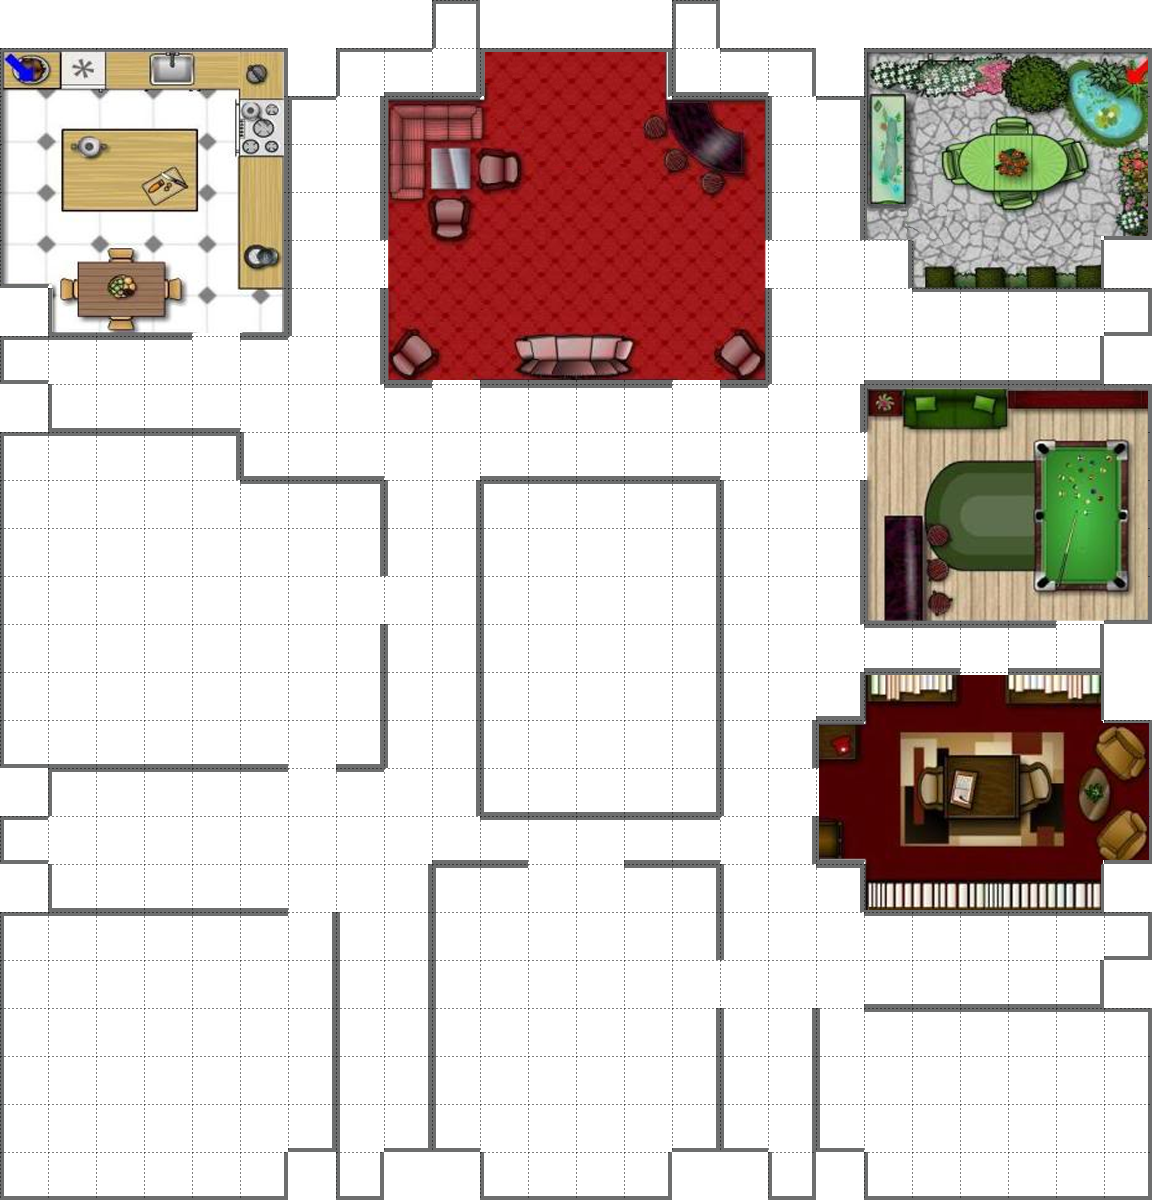
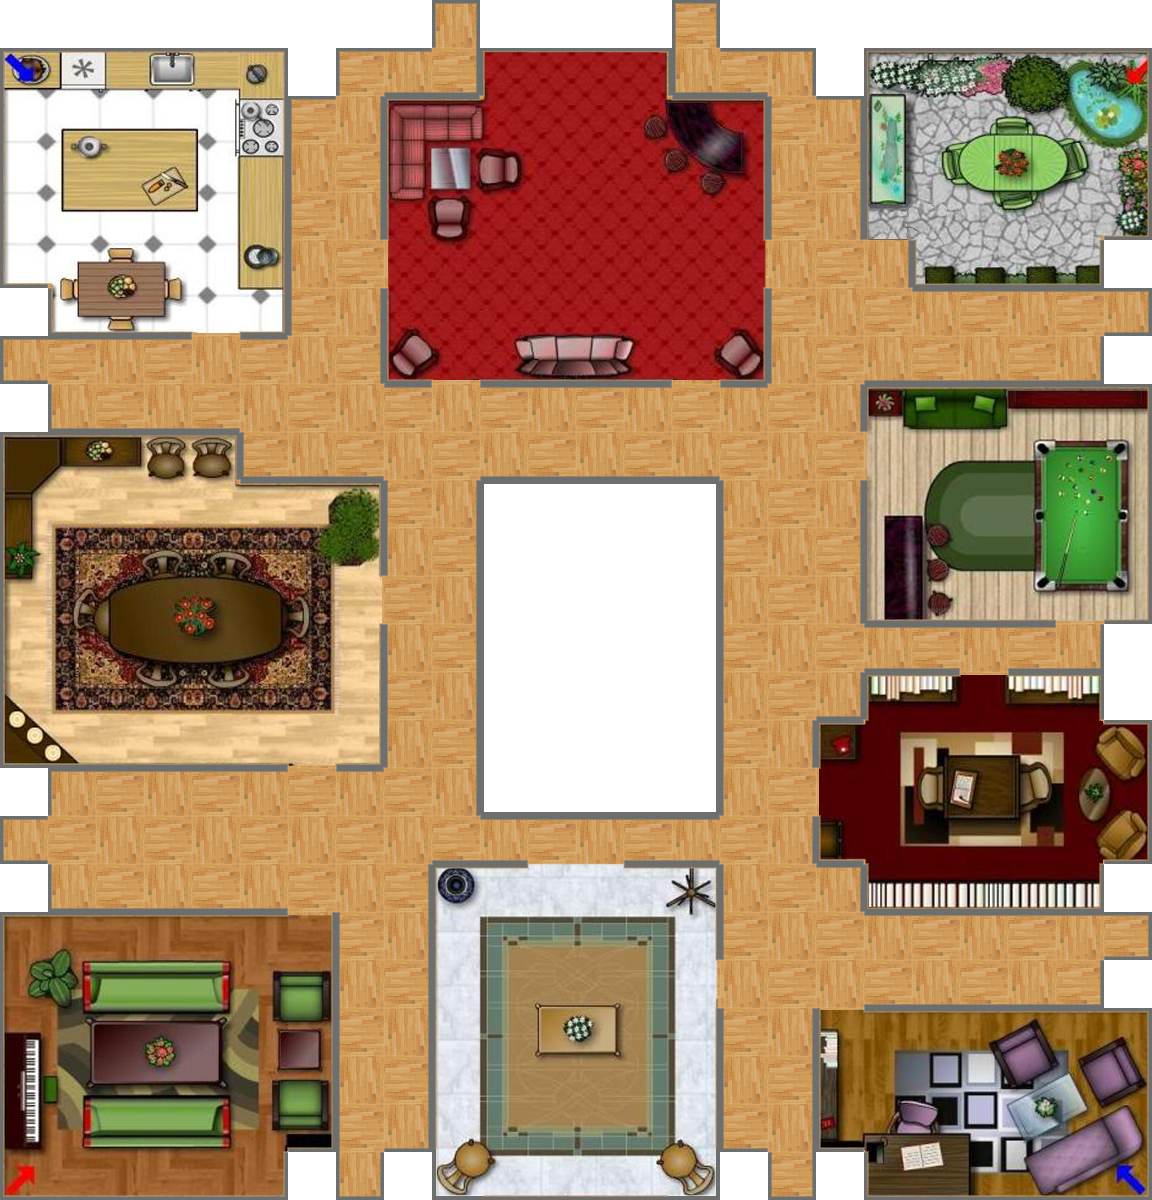
Added collision between chars

diff --git a/Cluedo/src/cluedo/main/Game.java b/Cluedo/src/cluedo/main/Game.java
@@ -19,6 +19,7 @@ import javax.swing.JFrame;
 import javax.swing.JMenuBar;
 import javax.swing.JPanel;
 
+import cluedo.character.Chars;
 import cluedo.main.UpdatePlayer.mFunc;
 import cluedo.render.CardHUD;
 import cluedo.render.HUD;
@@ -189,26 +190,32 @@ public class Game implements KeyListener, MouseListener{
 			ArrayList<Point> pnts = new ArrayList<Point>();
 			if(tileX >=0 && tileX <t_w_i && tileY >= 0 && tileY <t_h_i){
 				int x =(int) tileX;
-				int y = (int) tileY;
-				points = updatePlayerMove.updatePlayerMove(mFunc.MOVE_MOUSE, data, new Point(x, y));
-				pnts = new ArrayList<Point>();
-				while(!points.isEmpty()){
-					Point p = points.pop();
-					//System.out.println("Here");
-					data.getCurrentPlayer().setPosition(p);
-					for(Point pn : points){
-						pnts.add(pn);
-					}
-					data.setMousePath(pnts);
+				int y = (int) tileY;								
+				if(tiles[y][x].get_room()!= Room.NULL && !tiles[y][x].HasChar()){
+					points = updatePlayerMove.updatePlayerMove(mFunc.MOVE_MOUSE, data, new Point(x, y));
 					pnts = new ArrayList<Point>();
-					screen.render(data);
-					try {
-						Thread.sleep(100);
-					} catch (InterruptedException e1) {
-						e1.printStackTrace();
+					while(!points.isEmpty()){
+						Point p = points.pop();
+						//System.out.println("Here");
+						Chars c = data.getCurrentPlayer();
+						tiles[c.getPosition().y][c.getPosition().x].setHasChar(false);
+						data.getCurrentPlayer().setPosition(p);
+						c = data.getCurrentPlayer();
+						tiles[c.getPosition().y][c.getPosition().x].setHasChar(true);
+						
+						for(Point pn : points){
+							pnts.add(pn);
+						}
+						data.setMousePath(pnts);
+						pnts = new ArrayList<Point>();
+						screen.render(data);
+						try {
+							Thread.sleep(100);
+						} catch (InterruptedException e1) {
+							e1.printStackTrace();
+						}
 					}
 				}
-
 			}
 			screen.render(data);
 
@@ -232,7 +239,7 @@ public class Game implements KeyListener, MouseListener{
 
 	public enum Room{
 		KITCHEN, BALL_ROOM, CONSERVATORY, DINING_ROOM, BILLARD_ROOM,
-		LIBRARY, LOUNGE, HALL, STUDY, FLOOR
+		LIBRARY, LOUNGE, HALL, STUDY, FLOOR, NULL
 	}
 
 	public static void main(String[] args) {

diff --git a/Cluedo/src/cluedo/load/LoadMap.java b/Cluedo/src/cluedo/load/LoadMap.java
@@ -46,31 +46,37 @@ public class LoadMap {
 						c.setSprite(new LoadImage().load_chars_image(c.get_name()));
 						chars.add(c);
 						tiles[tile_count][i].set_room(Room.FLOOR);
+						tiles[tile_count][i].setHasChar(true);
 					}else if(data[i].equalsIgnoreCase("RG")){
 						Chars c = new Chars(CharsName.REVEREND_GREEN,new Point(i,tile_count));
 						c.setSprite(new LoadImage().load_chars_image(c.get_name()));
 						chars.add(c);
 						tiles[tile_count][i].set_room(Room.FLOOR);
+						tiles[tile_count][i].setHasChar(true);
 					}else if(data[i].equalsIgnoreCase("MP")){
 						Chars c = new Chars(CharsName.MRS_PEACOCK,new Point(i,tile_count));
 						c.setSprite(new LoadImage().load_chars_image(c.get_name()));
 						chars.add(c);
 						tiles[tile_count][i].set_room(Room.FLOOR);
+						tiles[tile_count][i].setHasChar(true);
 					}else if(data[i].equalsIgnoreCase("CM")){
 						Chars c = new Chars(CharsName.COLONEL_MUSTARD,new Point(i,tile_count));
 						c.setSprite(new LoadImage().load_chars_image(c.get_name()));
 						chars.add(c);
 						tiles[tile_count][i].set_room(Room.FLOOR);
+						tiles[tile_count][i].setHasChar(true);
 					}else if(data[i].equalsIgnoreCase("PP")){
 						Chars c = new Chars(CharsName.PROFESSOR_PLUM,new Point(i,tile_count));
 						c.setSprite(new LoadImage().load_chars_image(c.get_name()));
 						chars.add(c);
 						tiles[tile_count][i].set_room(Room.FLOOR);
+						tiles[tile_count][i].setHasChar(true);
 					}else if(data[i].equalsIgnoreCase("MS")){
 						Chars c = new Chars(CharsName.MISS_SCARLET,new Point(i,tile_count));
 						c.setSprite(new LoadImage().load_chars_image(c.get_name()));
 						chars.add(c);
 						tiles[tile_count][i].set_room(Room.FLOOR);
+						tiles[tile_count][i].setHasChar(true);
 					}else if(data[i].equalsIgnoreCase("a")){
 						tiles[tile_count][i].set_room(Room.KITCHEN);
 						tiles[tile_count][i].set_trap(true);
@@ -156,6 +162,8 @@ public class LoadMap {
 			room = Room.HALL;
 		}else if(d == 9){
 			room = Room.STUDY;
+		}else if(d == 10){
+			room = Room.NULL;
 		}
 
 		return room;

diff --git a/Cluedo/src/cluedo/search/Search.java b/Cluedo/src/cluedo/search/Search.java
@@ -35,7 +35,7 @@ public class Search {
 				Tile curTile = currentObj.getTile();
 				if(curTile.can_move_up()){
 					Tile nTile = curTile.get_neigh(Direction.UP);
-					if(!nTile.isVisited()){
+					if(!nTile.isVisited() && !nTile.HasChar()){
 						double costToNeigh = currentObj.getCostToHere()+1; // The on represents the distance to the next tile
 						double estTotal = costToNeigh + estimate(nTile, to);
 						QNode n = new QNode(nTile, currentObj, costToNeigh, estTotal);
@@ -45,7 +45,7 @@ public class Search {
 				}
 				if(curTile.can_move_down()){
 					Tile nTile = curTile.get_neigh(Direction.DOWN);
-					if(!nTile.isVisited()){
+					if(!nTile.isVisited() && !nTile.HasChar()){
 						double costToNeigh = currentObj.getCostToHere()+1; // The on represents the distance to the next tile
 						double estTotal = costToNeigh + estimate(nTile, to);
 						QNode n = new QNode(nTile, currentObj, costToNeigh, estTotal);
@@ -55,7 +55,7 @@ public class Search {
 				}
 				if(curTile.can_move_right()){
 					Tile nTile = curTile.get_neigh(Direction.RIGHT);
-					if(!nTile.isVisited()){
+					if(!nTile.isVisited() && !nTile.HasChar()){
 						double costToNeigh = currentObj.getCostToHere()+1; // The on represents the distance to the next tile
 						double estTotal = costToNeigh + estimate(nTile, to);
 						QNode n = new QNode(nTile, currentObj, costToNeigh, estTotal);
@@ -65,7 +65,7 @@ public class Search {
 				}
 				if(curTile.can_move_left()){
 					Tile nTile = curTile.get_neigh(Direction.LEFT);
-					if(!nTile.isVisited()){
+					if(!nTile.isVisited() && !nTile.HasChar()){
 						double costToNeigh = currentObj.getCostToHere()+1; // The on represents the distance to the next tile
 						double estTotal = costToNeigh + estimate(nTile, to);
 						QNode n = new QNode(nTile, currentObj, costToNeigh, estTotal);

diff --git a/Cluedo/src/cluedo/main/UpdatePlayer.java b/Cluedo/src/cluedo/main/UpdatePlayer.java
@@ -45,8 +45,10 @@ public class UpdatePlayer {
 					Tile tileNew = tileOld.get_neigh(Direction.UP);
 					if (tileNew == null) {
 						System.out.println("TileNew is null  25 UpdatePlayer");
-					} else {
+					} else if(!tileNew.HasChar()){
 						c.setPosition(tileNew.getArrayPos());
+						tileOld.setHasChar(false);
+						tileNew.setHasChar(true);
 					}
 				}
 			} else if (func == mFunc.MOVE_DOWN) {
@@ -54,8 +56,10 @@ public class UpdatePlayer {
 					Tile tileNew = tileOld.get_neigh(Direction.DOWN);
 					if (tileNew == null) {
 						System.out.println("TileNew is null  25 UpdatePlayer");
-					} else {
+					} else if(!tileNew.HasChar()){
 						c.setPosition(tileNew.getArrayPos());
+						tileOld.setHasChar(false);
+						tileNew.setHasChar(true);
 					}
 				}
 			} else if (func == mFunc.MOVE_RIGHT) {
@@ -63,17 +67,22 @@ public class UpdatePlayer {
 					Tile tileNew = tileOld.get_neigh(Direction.RIGHT);
 					if (tileNew == null) {
 						System.out.println("TileNew is null  25 UpdatePlayer");
-					} else {
+					} else if(!tileNew.HasChar()){
 						c.setPosition(tileNew.getArrayPos());
+						tileOld.setHasChar(false);
+						tileNew.setHasChar(true);
 					}
 				}
 			} else if (func == mFunc.MOVE_LEFT) {
 				if (tileOld.can_move_left()) {
 					Tile tileNew = tileOld.get_neigh(Direction.LEFT);
 					if (tileNew == null) {
-						System.out.println("TileNew is null  25 UpdatePlayer");
-					} else {
+						System.out.println("Direction Blocked");
+						
+					} else if(!tileNew.HasChar()){
 						c.setPosition(tileNew.getArrayPos());
+						tileOld.setHasChar(false);
+						tileNew.setHasChar(true);
 					}
 				}
 			}

diff --git a/Cluedo/src/cluedo/main/Tile.java b/Cluedo/src/cluedo/main/Tile.java
@@ -23,6 +23,7 @@ public class Tile {
 	private Point trap_location;
 	private double ratio;
 	private boolean isVisited = false;
+	private boolean hasChar = false;
 
 	public Tile(Point p){
 		this.arrayPos = p;
@@ -139,5 +140,13 @@ public class Tile {
 
 	public void setVisited(boolean isVisited) {
 		this.isVisited = isVisited;
+	}
+
+	public boolean HasChar() {
+		return hasChar;
+	}
+
+	public void setHasChar(boolean hasChar) {
+		this.hasChar = hasChar;
 	}
 }

diff --git a/Cluedo/src/cluedo/render/Screen.java b/Cluedo/src/cluedo/render/Screen.java
@@ -63,7 +63,7 @@ public class Screen extends Canvas{
 		Graphics2D g = (Graphics2D)bs.getDrawGraphics();
 		//System.out.println("here");
 		render_map(g, as);
-		render_grid(g, as);
+		//render_grid(g, as);
 		render_chars(g,as);
 		render_path(g,as);
 		bs.show();
